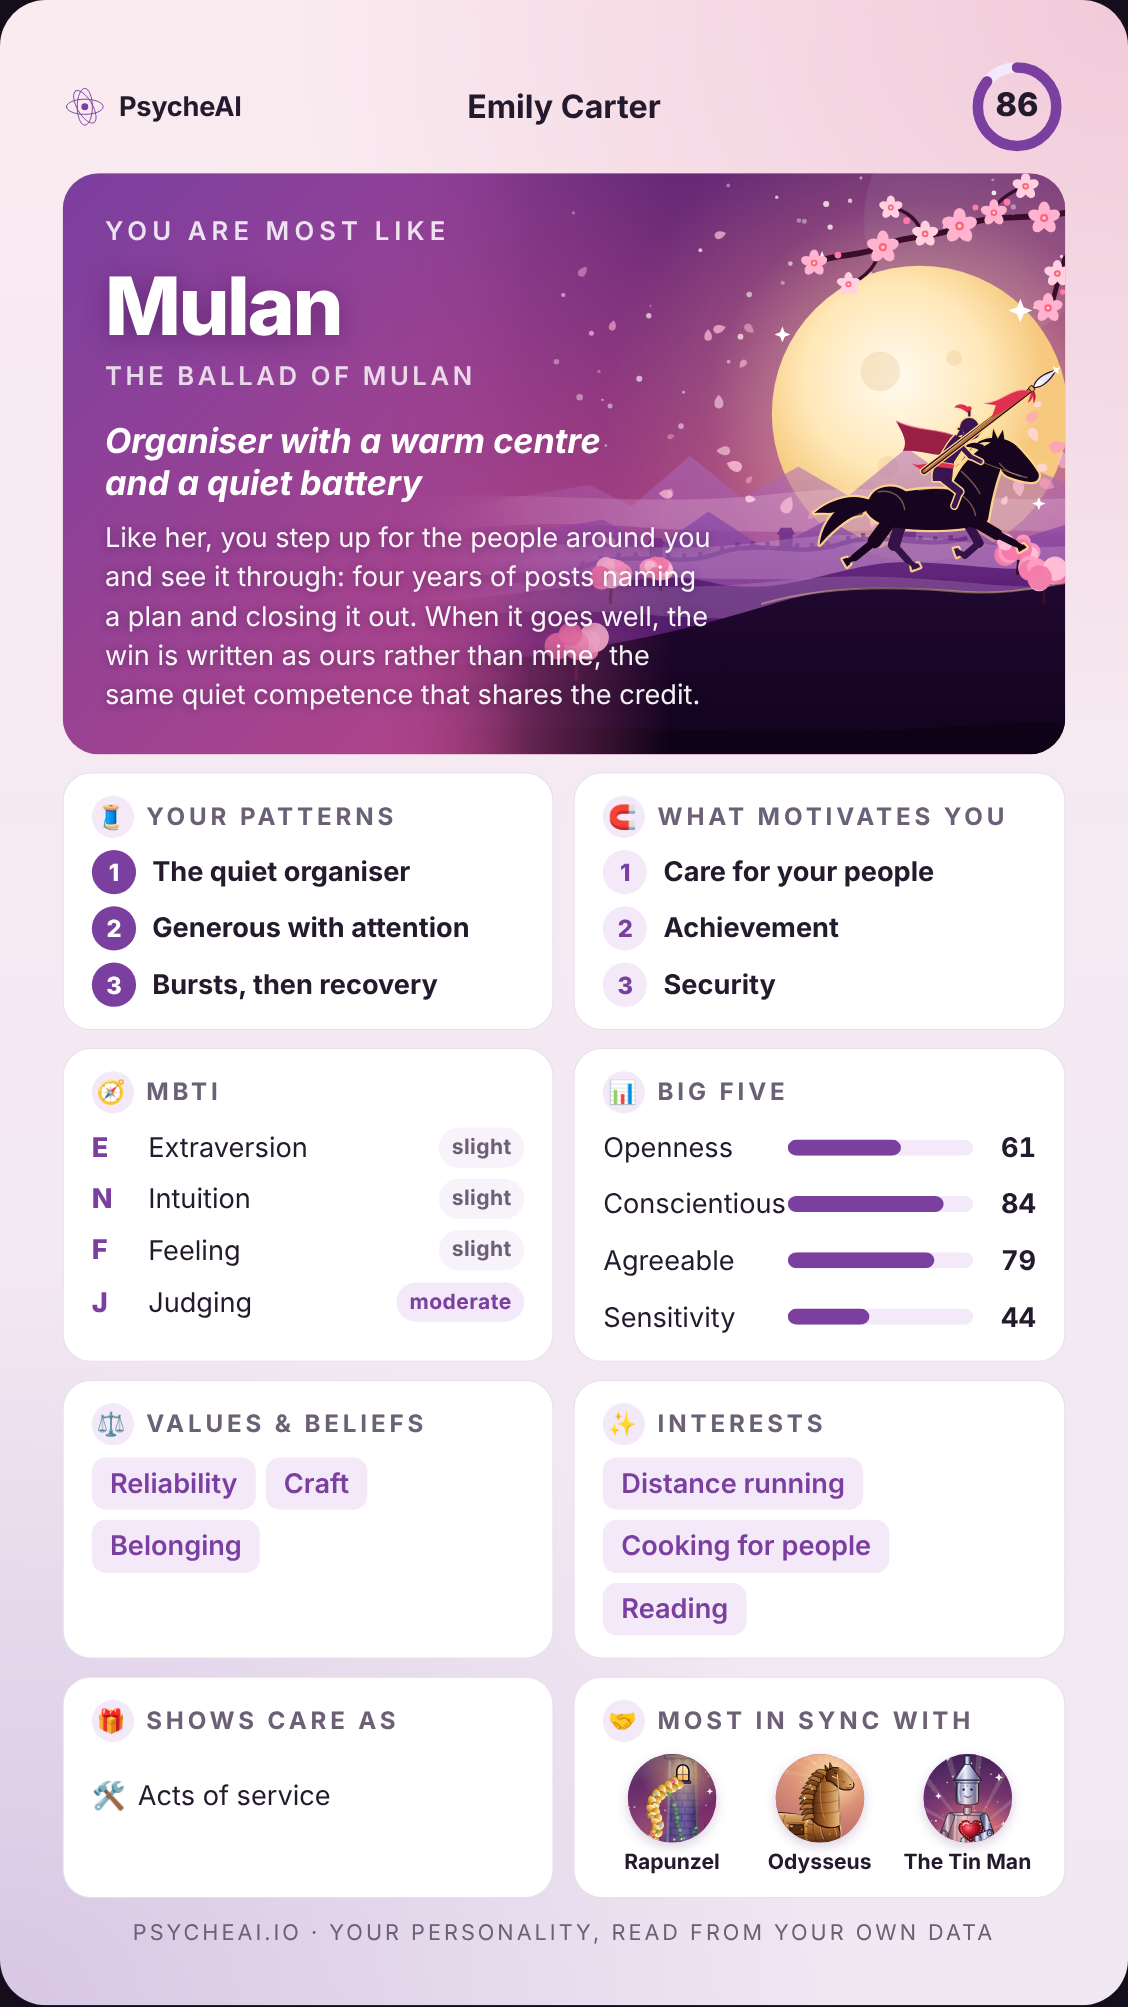
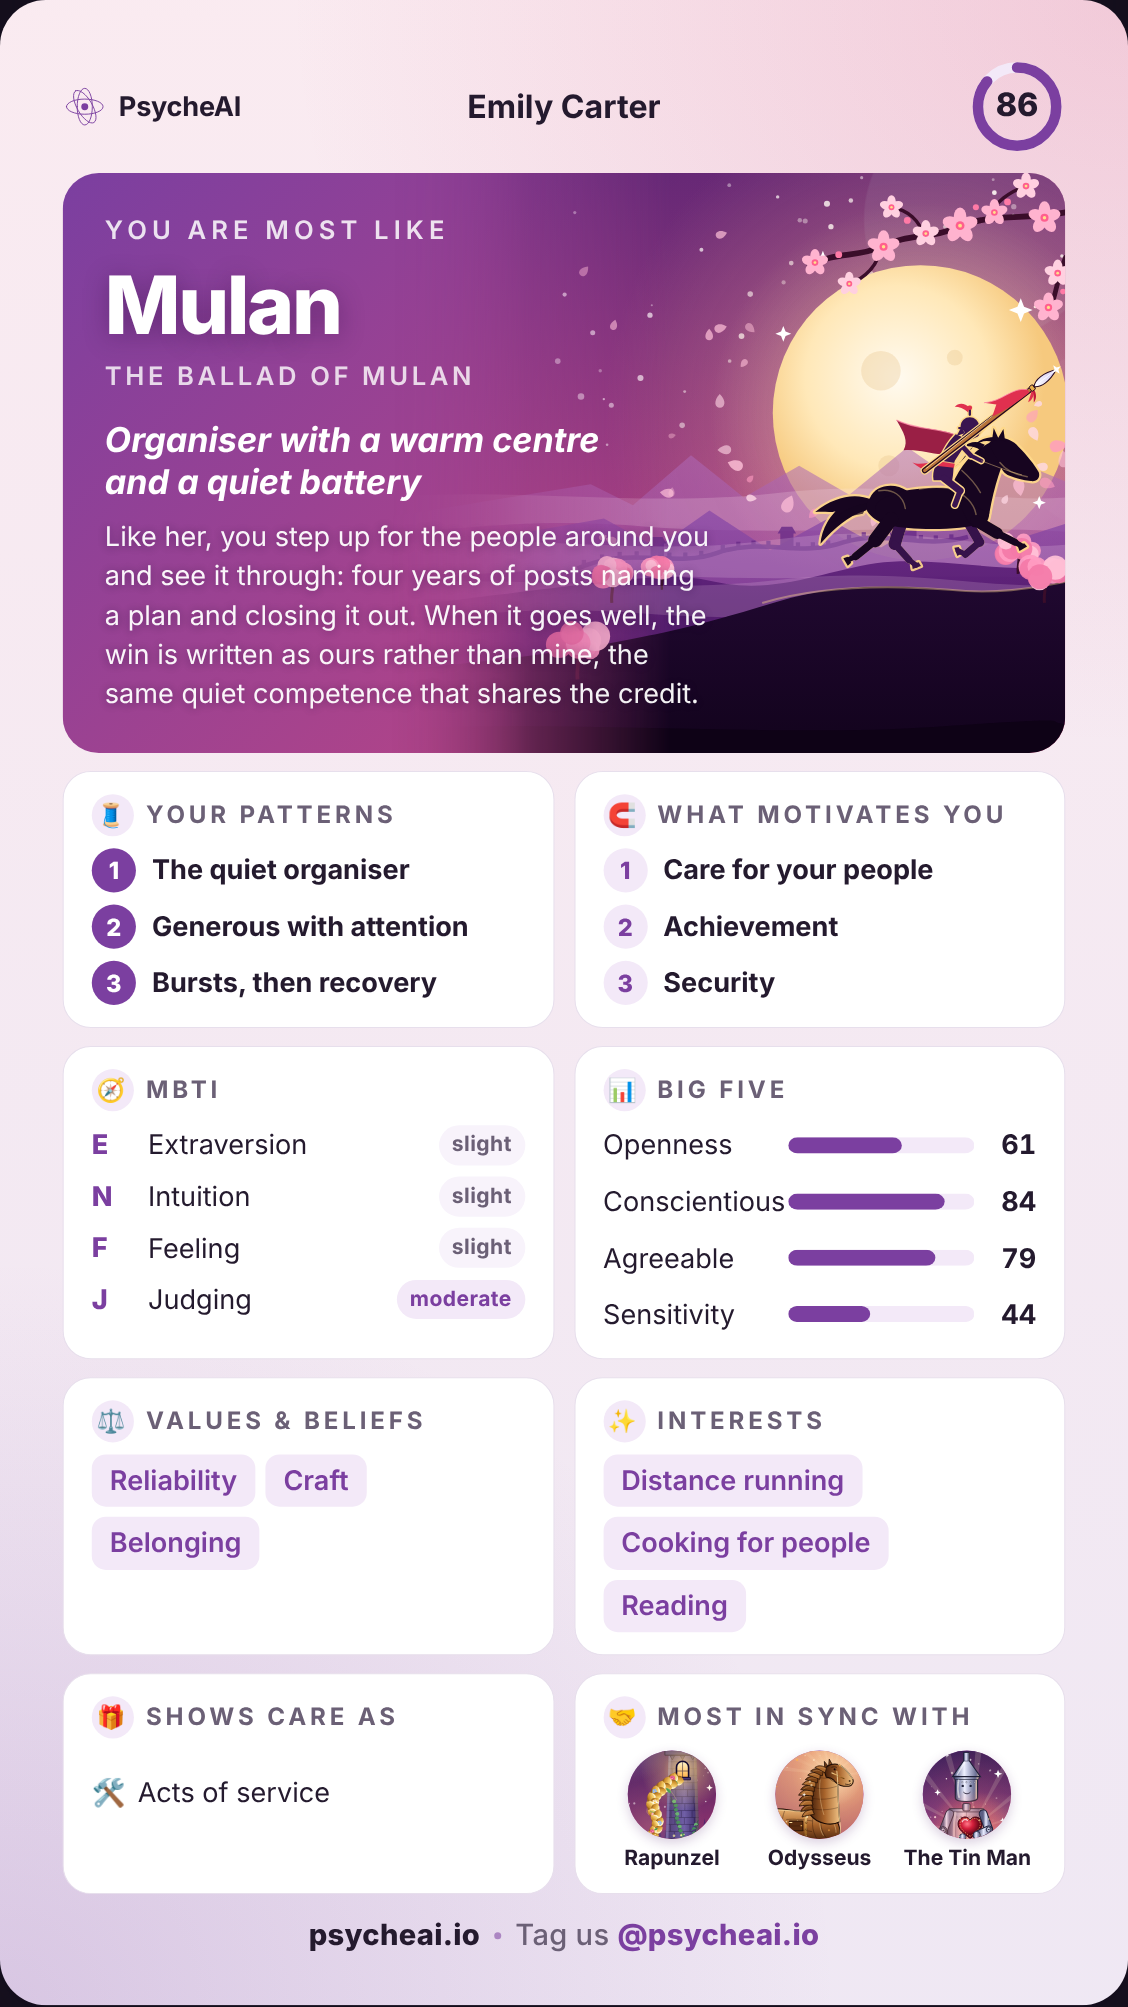
Card signature set out larger; five emblems match their scenes
- psycheai.io · Tag us @psycheai.io, in ink and accent rather than small grey
  capitals, on the card's foot and beside the QR code.
- Emblems: Mulan a spear, Simba a savanna sunrise, Hiccup a dragon's wing,
  Wonder Woman a laurel wreath, Captain America a plain star.

Claude-Session: https://claude.ai/code/session_01CRzeXkfFHkydYVzkncp2Pw

diff --git a/docs/copy.js b/docs/copy.js
@@ -1516,6 +1516,8 @@
     cardInto: 'Interests',
     // Every card that is shared says where to get one: the address, not just the name.
     cardFooter: 'psycheai.io · tag us @psycheai.io',
+    // The same, as the card prints it: the site, then the Instagram handle to tag.
+    cardSite: 'psycheai.io', cardTagLead: 'Tag us', cardHandle: '@psycheai.io',
     cardTraitShort: { openness: 'Openness', conscientiousness: 'Conscientious', extraversion: 'Extraversion',
       agreeableness: 'Agreeable', neuroticism: 'Sensitivity' },
     nothingYet: 'Nothing here yet.',
@@ -1671,17 +1673,22 @@
     horse: '<path d="M10 20c0-3 2-5 5-5h14l5-10h5l3 2-3 5-5 2-2 14H10z" fill="currentColor" fill-opacity=".18"/><path d="M10 20c0-3 2-5 5-5h14l5-10h5l3 2-3 5-5 2-2 14H10z"/><path d="M12 28v8M18 28v8M27 28v8M32 28v8"/><path d="M8 36h28"/><circle cx="12" cy="41" r="3"/><circle cx="32" cy="41" r="3"/><path d="M8 20l-3 8"/><path d="M18 19h8v6h-8z"/>',
     tower: '<path d="M14 18h14v26H14z" fill="currentColor" fill-opacity=".18"/><path d="M14 18h14v26H14z"/><path d="M11 18L21 3l10 15z" fill="currentColor" fill-opacity=".18"/><path d="M11 18L21 3l10 15z"/><path d="M18 27v-3a3 3 0 0 1 6 0v3z"/><path d="M24 27c6 3 2 8 8 11s4 6 10 6"/><path d="M14 33h14M14 39h14"/><path d="M40 8l1 2.5 2.5 1-2.5 1-1 2.5-1-2.5-2.5-1 2.5-1z" fill="currentColor" stroke="none"/>',
     tinheart: '<path d="M24 40C12 32 6 25 6 17c0-6 4-10 9-10 4 0 7 3 9 6 2-3 5-6 9-6 5 0 9 4 9 10 0 8-6 15-18 23z" fill="currentColor" fill-opacity=".18"/><path d="M24 40C12 32 6 25 6 17c0-6 4-10 9-10 4 0 7 3 9 6 2-3 5-6 9-6 5 0 9 4 9 10 0 8-6 15-18 23z"/><path d="M24 2v5"/><path d="M36 30l8 14"/><path d="M38 33c3-3 7-3 8 0-3 1-5 3-6 5z" fill="currentColor" fill-opacity=".45"/>',
+    spear: '<path d="M8 42L31 19"/><path d="M31 19C33 12 37 8 44 4C41 11 37 15 31 19z" fill="currentColor" fill-opacity=".18"/><path d="M31 19C33 12 37 8 44 4C41 11 37 15 31 19z"/><path d="M28 17l5 5"/><path d="M29 21c-4 0-7 3-12 2 3 3 6 5 10 4" fill="currentColor" fill-opacity=".18"/><path d="M29 21c-4 0-7 3-12 2 3 3 6 5 10 4"/><circle cx="11.0" cy="8.4" r="2.6" fill="currentColor" fill-opacity=".18"/><circle cx="11.0" cy="8.4" r="2.6"/><circle cx="14.4" cy="10.9" r="2.6" fill="currentColor" fill-opacity=".18"/><circle cx="14.4" cy="10.9" r="2.6"/><circle cx="13.1" cy="14.9" r="2.6" fill="currentColor" fill-opacity=".18"/><circle cx="13.1" cy="14.9" r="2.6"/><circle cx="8.9" cy="14.9" r="2.6" fill="currentColor" fill-opacity=".18"/><circle cx="8.9" cy="14.9" r="2.6"/><circle cx="7.6" cy="10.9" r="2.6" fill="currentColor" fill-opacity=".18"/><circle cx="7.6" cy="10.9" r="2.6"/><circle cx="11" cy="12" r="1.2" fill="currentColor" stroke="none"/>',
+    savanna: '<path d="M12 36a12 12 0 0 1 24 0" fill="currentColor" fill-opacity=".18"/><path d="M12 36a12 12 0 0 1 24 0"/><path d="M24 17v-5M13.5 21.5l-3-3M34.5 21.5l3-3M8 29H4M44 29h-4"/><path d="M4 36h40"/><path d="M31 36v-9"/><path d="M23 27c1-4 15-4 16 0z" fill="currentColor" fill-opacity=".45"/><path d="M23 27c1-4 15-4 16 0z"/><path d="M10 41h28"/>',
+    wing: '<path d="M4 31C10 15 24 8 44 9C41 15 39 20 40 27C36 24 31 24 28 28C27 23 23 21 19 23C17 27 12 30 4 31z" fill="currentColor" fill-opacity=".18"/><path d="M4 31C10 15 24 8 44 9C41 15 39 20 40 27C36 24 31 24 28 28C27 23 23 21 19 23C17 27 12 30 4 31z"/><path d="M8 30L44 9M44 9L28 28M44 9L19 23"/><path d="M41 32c2 2 3 4 3 7M36 36c1 2 1 4 0 6"/>',
+    laurel: '<path d="M19 42C10 37 6 26 11 10M29 42C38 37 42 26 37 10"/><ellipse cx="9" cy="33" rx="2.8" ry="5.4" transform="rotate(-30 9 33)" fill="currentColor" fill-opacity=".18"/><ellipse cx="9" cy="33" rx="2.8" ry="5.4" transform="rotate(-30 9 33)"/><ellipse cx="7" cy="25" rx="2.8" ry="5.4" transform="rotate(-8 7 25)" fill="currentColor" fill-opacity=".18"/><ellipse cx="7" cy="25" rx="2.8" ry="5.4" transform="rotate(-8 7 25)"/><ellipse cx="8" cy="17" rx="2.8" ry="5.4" transform="rotate(12 8 17)" fill="currentColor" fill-opacity=".18"/><ellipse cx="8" cy="17" rx="2.8" ry="5.4" transform="rotate(12 8 17)"/><ellipse cx="12" cy="10" rx="2.8" ry="5.4" transform="rotate(30 12 10)" fill="currentColor" fill-opacity=".18"/><ellipse cx="12" cy="10" rx="2.8" ry="5.4" transform="rotate(30 12 10)"/><ellipse cx="15" cy="39" rx="2.8" ry="5.4" transform="rotate(-55 15 39)" fill="currentColor" fill-opacity=".18"/><ellipse cx="15" cy="39" rx="2.8" ry="5.4" transform="rotate(-55 15 39)"/><ellipse cx="39" cy="33" rx="2.8" ry="5.4" transform="rotate(30 39 33)" fill="currentColor" fill-opacity=".18"/><ellipse cx="39" cy="33" rx="2.8" ry="5.4" transform="rotate(30 39 33)"/><ellipse cx="41" cy="25" rx="2.8" ry="5.4" transform="rotate(8 41 25)" fill="currentColor" fill-opacity=".18"/><ellipse cx="41" cy="25" rx="2.8" ry="5.4" transform="rotate(8 41 25)"/><ellipse cx="40" cy="17" rx="2.8" ry="5.4" transform="rotate(-12 40 17)" fill="currentColor" fill-opacity=".18"/><ellipse cx="40" cy="17" rx="2.8" ry="5.4" transform="rotate(-12 40 17)"/><ellipse cx="36" cy="10" rx="2.8" ry="5.4" transform="rotate(-30 36 10)" fill="currentColor" fill-opacity=".18"/><ellipse cx="36" cy="10" rx="2.8" ry="5.4" transform="rotate(-30 36 10)"/><ellipse cx="33" cy="39" rx="2.8" ry="5.4" transform="rotate(55 33 39)" fill="currentColor" fill-opacity=".18"/><ellipse cx="33" cy="39" rx="2.8" ry="5.4" transform="rotate(55 33 39)"/><path d="M19 42l5-3 5 3"/>',
+    bigstar: '<path d="M24.0 6.0 L28.7 18.5 L42.1 19.1 L31.6 27.5 L35.2 40.4 L24.0 33.0 L12.8 40.4 L16.4 27.5 L5.9 19.1 L19.3 18.5Z" fill="currentColor" fill-opacity=".18"/><path d="M24.0 6.0 L28.7 18.5 L42.1 19.1 L31.6 27.5 L35.2 40.4 L24.0 33.0 L12.8 40.4 L16.4 27.5 L5.9 19.1 L19.3 18.5Z"/><path d="M42 7v4M40 9h4M6 39v3M4.5 40.5h3"/>',
     flame: '<path d="M24 45c-10 0-15-6-15-14 0-10 9-13 9-24 6 4 11 10 11 16 2-2 3-5 3-8 5 4 7 10 7 16 0 8-5 14-15 14z" fill="currentColor" fill-opacity=".18"/><path d="M24 45c-10 0-15-6-15-14 0-10 9-13 9-24 6 4 11 10 11 16 2-2 3-5 3-8 5 4 7 10 7 16 0 8-5 14-15 14z"/><path d="M24 45c-5 0-7-3-7-7 0-5 4-7 5-12 3 3 6 6 6 10 1-1 2-2 2-4 2 2 3 4 3 6 0 4-3 7-9 7z" fill="currentColor" stroke="none" fill-opacity=".45"/>',
   };
   const CHARACTER_EMBLEMS = {
-    'Mulan': 'sword', 'Elsa': 'snowflake', 'Moana': 'wave', 'Simba': 'crown', 'Rapunzel': 'tower',
+    'Mulan': 'spear', 'Elsa': 'snowflake', 'Moana': 'wave', 'Simba': 'savanna', 'Rapunzel': 'tower',
     'Sherlock Holmes': 'magnifier', 'Dr Watson': 'bag', 'Odysseus': 'horse',
     'Judy Hopps': 'rabbit', 'Nick Wilde': 'fox', 'Baymax': 'heart',
     'Buzz Lightyear': 'rocket', 'The Tin Man': 'tinheart', 'Remy': 'whisk', 'Joy': 'arcade',
-    'Captain America': 'shield', 'Spider-Man': 'web', 'Hulk': 'mountain',
-    'Wonder Woman': 'lasso',
+    'Captain America': 'bigstar', 'Spider-Man': 'web', 'Hulk': 'mountain',
+    'Wonder Woman': 'laurel',
     'Pikachu': 'bolt', 'Totoro': 'leaf',
-    'Shrek': 'treehouse', 'Po': 'bowl', 'Hiccup': 'flame',
+    'Shrek': 'treehouse', 'Po': 'bowl', 'Hiccup': 'wing',
     'Hermione Granger': 'book', 'Kuromi': 'nightcat', 'Sailor Moon': 'crescent', 'Princess Peach': 'peach', 'Hello Kitty': 'teacup',
     // Retired from the catalogue (lib/prompts.js, RETIRED_CHARACTERS), kept so
     // a card written before they were retired still draws its emblem.

diff --git a/docs/styles.css b/docs/styles.css
@@ -3350,6 +3350,14 @@ details.more[open] > summary::after { content: ' ▴'; }
 .pc-sfoot {
   margin: auto 0 0; text-align: center; font-size: 20px; letter-spacing: .14em; text-transform: uppercase; color: var(--ink-soft);
 }
+/* The signature: where to find PsycheAI and who to tag, set large enough to
+   read in a story but quiet: the site in ink, the handle in the accent. */
+.pc-sfoot, .pc-qr-site { display: flex; align-items: baseline; justify-content: center; flex-wrap: wrap; gap: 0 14px;
+  text-transform: none; letter-spacing: .01em; }
+.pc-sign-site { font-weight: 800; color: var(--ink); }
+.pc-sign-dot { width: 7px; height: 7px; border-radius: 999px; background: var(--accent); opacity: .55; align-self: center; }
+.pc-sign-tag { font-weight: 500; color: var(--ink-soft); margin-right: -6px; }
+.pc-sign-handle { font-weight: 800; color: var(--accent); }
 
 
 /* The story card, round two: the emblem in its medallion, the full
@@ -3474,7 +3482,7 @@ details.more[open] > summary::after { content: ' ▴'; }
 .pc-sstrength { font-size: 21px; padding: 3px 13px; }
 .pc-skicker, .pc-ssource { font-size: 25.5px; }
 .pc-spatterns .pc-snum, .pc-smotives .pc-snum { width: 44px; height: 44px; font-size: 23.5px; }
-.pc-sfoot { font-size: 21.5px; }
+.pc-sfoot { font-size: 29px; }
 .pc-ring-text { font-size: 21.5px; }
 
 /* ---------- what insights will I get? ----------
@@ -4381,7 +4389,7 @@ details.more[open] > summary::after { content: ' ▴'; }
 .pc-qr { flex: none; width: 188px; height: 188px; border-radius: 12px; }
 .pc-qr-text { min-width: 0; }
 .pc-qr-call { font-size: 38px; font-weight: 800; line-height: 1.18; color: var(--ink); }
-.pc-qr-site { margin-top: 12px; font-size: 19px; letter-spacing: .14em; text-transform: uppercase; color: var(--ink-soft); }
+.pc-qr-site { margin-top: 14px; font-size: 26px; color: var(--ink-soft); justify-content: flex-start; }
 .psyche-card.pc-has-qr .pc-sfoot { display: none; }
 /* The classic card is wider and shorter: a smaller code, one line. */
 .psyche-card:not(.pc-story) .pc-qr-slot { gap: 18px; margin-top: 14px; padding: 12px 16px; border-radius: 16px; }

diff --git a/docs/app.js b/docs/app.js
@@ -569,6 +569,13 @@
       .slice().sort((a, b) => (b.score || 0) - (a.score || 0)).slice(0, 3).map(row => row.value);
   }
 
+  /** The card's signature: the site, then the Instagram handle to tag (cardFooter, set out). */
+  function cardSignHtml() {
+    const S = Copy.STRUCTURED;
+    return '<span class="pc-sign-site">' + esc(S.cardSite) + '</span><span class="pc-sign-dot" aria-hidden="true"></span>' +
+      '<span class="pc-sign-tag">' + esc(S.cardTagLead) + '</span><span class="pc-sign-handle">' + esc(S.cardHandle) + '</span>';
+  }
+
   function psycheStoryHtml(report, own) {
     const S = Copy.STRUCTURED;
     const card = report.card || {};
@@ -665,7 +672,7 @@
       // On the reader's own card the foot carries the QR code for their link
       // once it is saved (fillCardQr), and the line moves in beside it.
       (own ? '<div class="pc-qr-slot"></div>' : '') +
-      '<p class="pc-sfoot">' + esc(S.cardFooter) + '</p>' +
+      '<p class="pc-sfoot">' + cardSignHtml() + '</p>' +
       '</div>';
   }
 
@@ -704,7 +711,7 @@
       const slot = card && card.querySelector('.pc-qr-slot');
       if (!slot) continue;
       slot.innerHTML = svg ? svg + '<div class="pc-qr-text"><p class="pc-qr-call">' + esc(TEXT.cardQrCall) + '</p>' +
-        '<p class="pc-qr-site">' + esc(Copy.STRUCTURED.cardFooter) + '</p></div>' : '';
+        '<p class="pc-qr-site">' + cardSignHtml() + '</p></div>' : '';
       card.classList.toggle('pc-has-qr', Boolean(svg));
     }
   }

diff --git a/README.md b/README.md
@@ -7541,6 +7541,11 @@ Holmes and The Tin Man, in that order in the gallery (Odysseus second).
   (`cardShareText`). Instagram keeps a shared image but drops its text, so the tap also copies the
   caption and says so ("Caption copied. Paste it into your post to tag @psycheai.io.").
 - The link's credit note: "1 card made = 1 credit = 5 questions or 1 report to gift".
+- The card's signature is set out rather than in small capitals (`cardSignHtml()`): **psycheai.io** in
+  ink, a dot, "Tag us" and **@psycheai.io** in the accent, about 40% larger.
+- Five emblems now match their scenes and drop a studio's mark: Mulan a spear with pennant and blossom
+  (was a sword), Simba a savanna sunrise with an acacia (was a crown), Hiccup a dragon's wing (was a
+  flame), Wonder Woman a laurel wreath (was her lasso), Captain America a plain star (was his shield).
 
 ### Let us roast you
 
